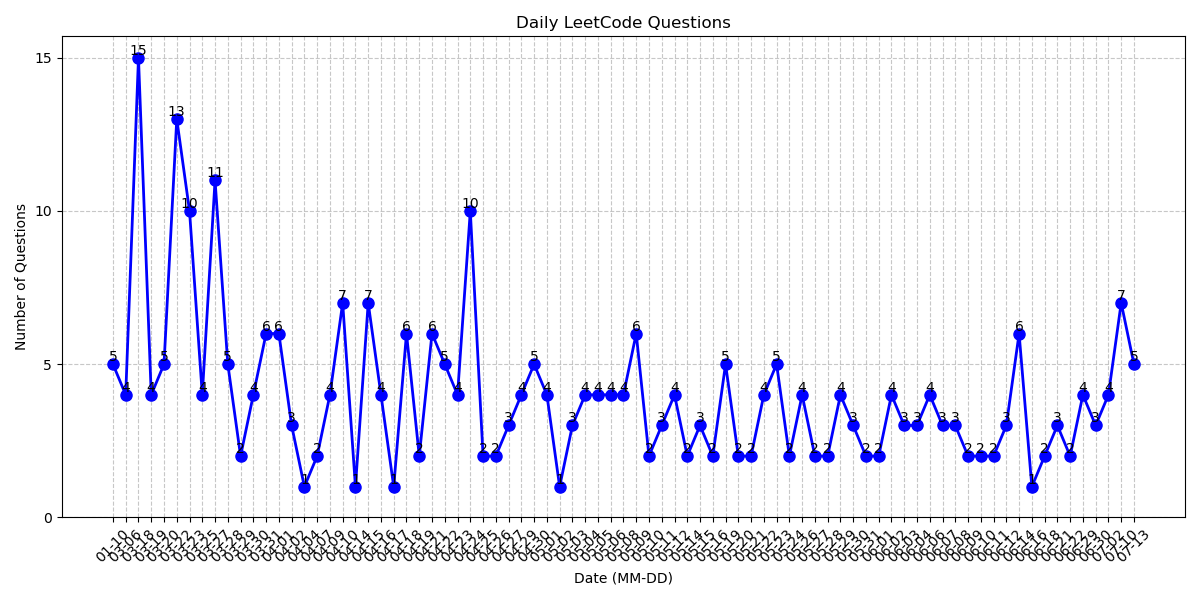
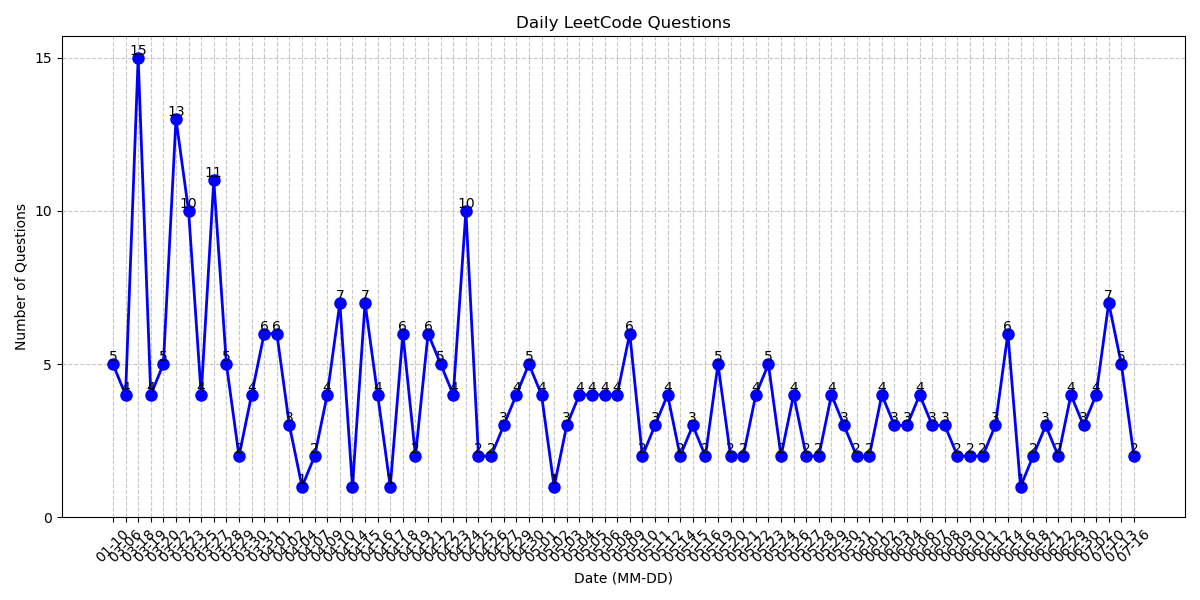
pratices

Changed region(s): [[0.0925, 0.06, 0.9558, 0.96]]

diff --git a/Tree/2196. Create Binary Tree From Descriptions.cpp b/Tree/2196. Create Binary Tree From Descriptions.cpp
@@ -1,0 +1,40 @@
+/*
+ex1: descriptions = [[20,15,1],[20,17,0],[15,10,1]]
+     output: root = 20
+ex2: descriptions = [[1,2,1],[2,3,0],[3,4,1]]
+     output: root = 1
+*/
+/*
+    將所有ndoe value都紀錄在hashtable, 並且建立TreeNode connection,
+   最後透過hashset找到root node return 即可
+*/
+class Solution {
+  public:
+	TreeNode *createBinaryTree(vector<vector<int>> &descriptions) {
+		unordered_map<int, TreeNode *> nodes;
+		unordered_set<int> children;
+
+		for (auto &d : descriptions) {
+			int parent = d[0], child = d[1], isLeft = d[2];
+			// not exist in table, create new node
+			if (!nodes.count(parent))
+				nodes[parent] = new TreeNode(parent);
+			if (!nodes.count(child))
+				nodes[child] = new TreeNode(child);
+
+			// connect the parent/child
+			if (isLeft)
+				nodes[parent]->left = nodes[child];
+			else
+				nodes[parent]->right = nodes[child];
+
+			children.insert(child);
+		}
+		// find the root node(not children in any node)
+		for (auto &[val, node] : nodes)
+			if (!children.count(val))
+				return node;
+
+		return nullptr; // just in case
+	}
+};

diff --git a/Tree/94.inorderTraversal.cpp b/Tree/94.inorderTraversal.cpp
@@ -8,7 +8,7 @@
  *     TreeNode(int x) : val(x), left(nullptr), right(nullptr) {}
  *     TreeNode(int x, TreeNode *left, TreeNode *right) : val(x), left(left),
  * right(right) {}
- * };
+ * }
  */
 class Solution {
   public:
@@ -25,5 +25,33 @@ class Solution {
 		dfs(res, node->left);
 		res.push_back(node->val);
 		dfs(res, node->right);
+	}
+};
+
+/* iterative version*/
+
+/*
+    stack 去運作, 先不斷push left 直到 leaf, pop 的同時如果有right node
+   就必須push right subtree
+*/
+class Solution {
+  public:
+	vector<int> inorderTraversal(TreeNode *root) {
+		vector<int> res;
+		stack<TreeNode *> s;
+		while (root || !s.empty()) {
+			while (root) {
+				s.push(root);
+				root = root->left;
+			}
+			if (!s.empty()) {
+				TreeNode *node = s.top();
+				s.pop();
+				res.push_back(node->val);
+				if (node->right != nullptr)
+					root = node->right;
+			}
+		}
+		return res;
 	}
 };

diff --git a/Tree/144. Binary Tree Preorder Traversal.cpp b/Tree/144. Binary Tree Preorder Traversal.cpp
@@ -1,0 +1,35 @@
+/**
+ * Definition for a binary tree node.
+ * struct TreeNode {
+ *     int val;
+ *     TreeNode *left;
+ *     TreeNode *right;
+ *     TreeNode() : val(0), left(nullptr), right(nullptr) {}
+ *     TreeNode(int x) : val(x), left(nullptr), right(nullptr) {}
+ *     TreeNode(int x, TreeNode *left, TreeNode *right) : val(x), left(left),
+ * right(right) {}
+ * };
+ */
+/*
+    root->left->right
+    1. recursive
+    2. stack, 先push right 再push left
+*/
+class Solution {
+  public:
+	vector<int> preorderTraversal(TreeNode *root) {
+		stack<TreeNode *> s;
+		s.push(root);
+		vector<int> res;
+		while (!s.empty()) {
+			TreeNode *node = s.top();
+			s.pop();
+			if (node == nullptr)
+				continue;
+			res.push_back(node->val);
+			s.push(node->right);
+			s.push(node->left);
+		}
+		return res;
+	}
+};

diff --git a/DynamicProgramming/houseRobber.cpp b/DynamicProgramming/houseRobber.cpp
@@ -1,6 +1,6 @@
 
 /*
- 1. 從 i 自己偷就去看i-2偷了多少然後加上自己
+ 1. 從 i 自己偷就去看i-2偷了多少然後加自己
  2. 如果 i自己偷的比 i-1還要少, 那乾脆偷i－1的 所以money[i] = money[i-1]
 */
 class Solution {
@@ -15,5 +15,24 @@ class Solution {
 			money[i] = max(money[i - 1], nums[i] + money[i - 2]);
 		}
 		return money[n - 1];
+	}
+};
+
+/* Top Down*/
+class Solution {
+  public:
+	vector<int> dp;
+	int rob(vector<int> &nums) {
+		int n = nums.size();
+		dp.resize(n, -1);
+		return dfs(nums, 0);
+	}
+	int dfs(vector<int> &nums, int i) {
+		if (i >= nums.size())
+			return 0;
+		if (dp[i] != -1)
+			return dp[i];
+		dp[i] = max(nums[i] + dfs(nums, i + 2), dfs(nums, i + 1));
+		return dp[i];
 	}
 };

diff --git a/DynamicProgramming/climbStair.cpp b/DynamicProgramming/climbStair.cpp
@@ -18,7 +18,6 @@ class Solution {
 		return recursive(n, i + 1) + recursive(n, i + 2);
 	}
 };
-
 /* Top Down*/
 class Solution {
   public:
@@ -45,15 +44,16 @@ class Solution {
 /* Buttom up */
 class Solution {
   public:
-	vector<int> table;
 	int climbStairs(int n) {
-		table.resize(n + 1, -1);
-		table[n] = 1;
-		table[n - 1] = 1;
-
-		for (int i = n - 2; i >= 0; --i) {
-			table[i] = table[i + 1] + table[i + 2];
+		if (n <= 2) {
+			return n;
 		}
-		return table[0];
+		vector<int> dp(n + 1);
+		dp[1] = 1;
+		dp[2] = 2;
+		for (int i = 3; i <= n; i++) {
+			dp[i] = dp[i - 1] + dp[i - 2];
+		}
+		return dp[n];
 	}
 };

diff --git a/DynamicProgramming/ReadMe.md b/DynamicProgramming/ReadMe.md
@@ -1,5 +1,17 @@
 # Dynamic Programming
 
+| 類型名稱                                | 特徵說明                                                          | 典型題目範例                                                                                                                                                                                                                                                                       |
+| --------------------------------------- | ----------------------------------------------------------------- | ---------------------------------------------------------------------------------------------------------------------------------------------------------------------------------------------------------------------------------------------------------------------------------- |
+| **序列型（Linear DP）**                 | 一維序列狀態，`dp[i]` 表示到第 i 個元素的最優解或計數             | 70. Climbing Stairs 🟢 <br>91. Decode Ways 🟠<br>139. Word Break 🟠<br>**198. House Robber** 🟠<br>**213. House Robber II** 🟠<br>518. Coin Change 2 🟠<br>152. Maximum Product Subarray 🟠<br>300. Longest Increasing Subsequence 🟠<br>2338. Count The Number Of Ideal Arrays 💀 |
+| **區間型（Interval DP）**               | 二維區間狀態 `dp[i][j]`，用於字串或序列區間的最佳解               | 5. Longest Palindromic Substring 🟠<br>647. Palindromic Substrings 🟠<br>790. Domino and Tromino Tiling 🟠<br>10. Regular Expression Matching 💀                                                                                                                                   |
+| **背包型（Knapsack DP）**               | 有容量或目標和限制，`dp[i][w]` 表示前 i 件物品放入容量 w 的最佳解 | 494. Target Sum 🟠<br>416. Partition Equal Subset Sum 🟠<br>322. Coin Change 🟠                                                                                                                                                                                                    |
+| **子序列 / 子集合型（Subsequence DP）** | 求序列中符合條件的子序列長度或個數，`dp[i][j]` 常用於雙序列比較   | 1143. Longest Common Subsequence 🟠<br>97. Interleaving String 🟠<br>72. Edit Distance 💀<br>2901. Longest Unequal Adjacent Groups Subsequence II 💀                                                                                                                               |
+| **樹形 DP（Tree DP）**                  | 樹結構狀態，`dp[node]` 記錄以該節點為根的最佳解                   | 337. House Robber III 🟠                                                                                                                                                                                                                                                           |
+| **狀態壓縮 DP（Bitmask DP）**           | 用 bitmask 表示狀態集合，常見於組合、排列問題                     | 847. Shortest Path Visiting All Nodes 💀                                                                                                                                                                                                                                           |
+| **記憶化遞迴（Memoization）**           | 遞迴＋快取，避免重複計算子問題                                    | 329. Longest Increasing Path in a Matrix 💀                                                                                                                                                                                                                                        |
+| **博弈型 DP（Game Theory）**            | 兩人博弈狀況，考慮對手策略的 DP                                   | 877. Stone Game 🟠<br>1857. Largest Color Value in a Directed Graph 💀                                                                                                                                                                                                             |
+| **貪心 + DP 結合**                      | 部分決策可用貪心優化的 DP                                         | 309. Best Time to Buy and Sell Stock with Cooldown 🟠<br>55. Jump Game 🟠<br>45. Jump Game II 🟠                                                                                                                                                                                   |
+
 ## Review
 
 - [ ] ❌ 5.LPS

diff --git a/README.md b/README.md
@@ -1,7 +1,7 @@
 # LeetCode Problems
 
 ❌  can't resolve without solution: 32
-📝  can't resolve without hint: 215
+📝  can't resolve without hint: 217
 ✅  resolve by self: 47
 ## Tree
 - ❌ 105. Construct Binary Tree from Preorder and Inorder Traversal
@@ -12,9 +12,11 @@
 - 📝 balance
 - 📝 maxDiameter
 - 📝 invertBT
+- 📝 2196. Create Binary Tree From Descriptions
 - 📝 2641. Cousins in Binary Tree II
 - 📝 remove
 - 📝 sameAncestor
+- 📝 144. Binary Tree Preorder Traversal
 - 📝 3593. Minimum Increments to Equalize Leaf Paths
 - 📝 SubTreeOfAnotherTree
 - 📝 SameTree
@@ -328,7 +330,7 @@
 - 📝 2574. Left and Right Sum Differences
 
 ## Statistics
-Current total questions: 290
+Current total questions: 292
 
 <img src="chart.png" alt="questions bar chart" width="500">
 
